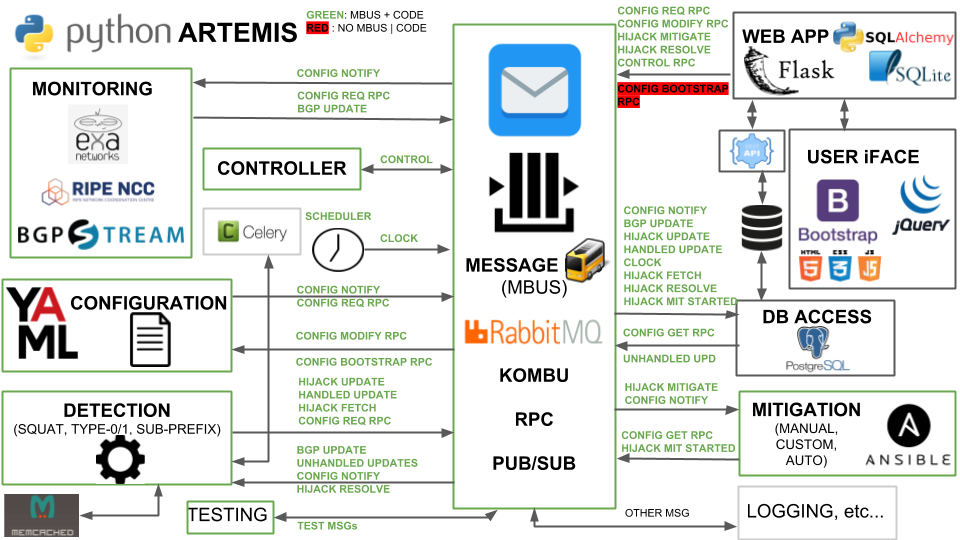
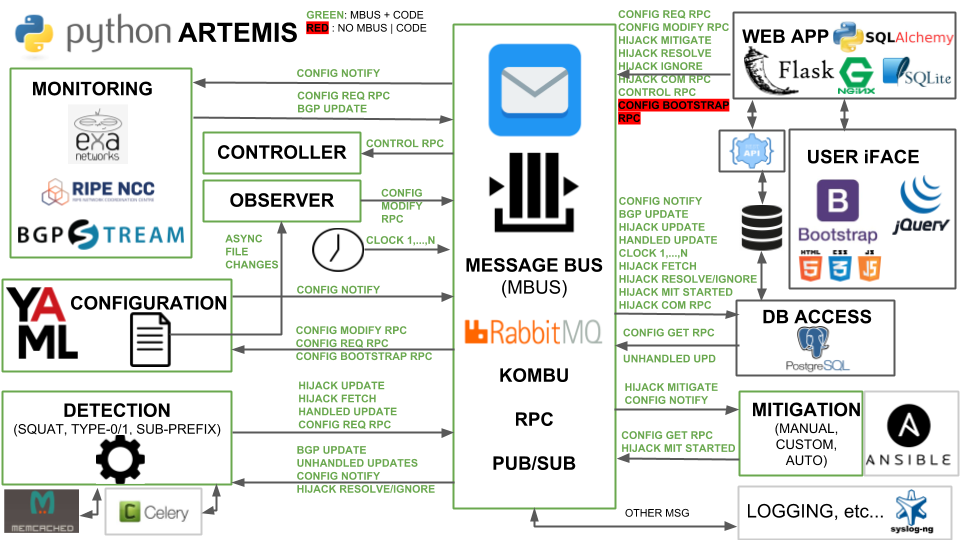
syncing README and arch figure with current code state

diff --git a/README.md b/README.md
@@ -36,29 +36,32 @@ suspicious event (potential hijack), the network operator is immediately
 sent a notification (e.g., UI entry or email) detailing the following information:
 ```
 {
-'prefix': ...,
-'hijacker_AS': ...,
-'hijack_type':...,
-'time_detected':...,
-'time_started': ...,
-'time_last_updated': ...,
-'peers_seen': ...,
-'inf_asns': ...
+  'prefix': ...,
+  'hijack_AS': ...,
+  'hijack_type':...,
+  'time_detected':...,
+  'time_started': ...,
+  'time_last': ...,
+  'configured_prefix': ...,
+  'timestamp_of_config': ...,
+  'peers_seen': ...,
+  'asns_inf': ...
 }
 ```
 and ARTEMIS offers the option to run a custom script defined by the operator.
 * Web interface used by the network administrator to:
 (i) provide configuration
-information (ASNs, prefixes, routing policies, etc.) via a web form or text editor,
-(ii) control ARTEMIS modules (start/stop/status),
+information (ASNs, prefixes, routing policies, etc.) via an online text editor,
+(ii) control the monitoring|detection|mitigation ARTEMIS modules (start|stop|status),
 (iii) monitor in real-time the BGP state related to the IP prefixes of interest,
-(iv) view details of BGP hijacks of monitored prefixes,
+(iv) view details of BGP hijacks of monitored configured prefixes,
 (v) monitor in real-time the status of ongoing, unresolved BGP hijacks,
 (vi) press button to trigger a custom mitigation process, mark as manually mitigated ("resolve")
 or ignore the event as a false positive,
-(vii) register and manage users (ADMIN|VIEWER).
+(vii) register and manage users (ADMIN|VIEWER),
+(viii) see configuration history and compare ARTEMIS current and previous configurations.
 * Configuration file editable by the operator (directly or via the web interface),
-containing information about: prefixes, ASNs, monitors and ARTEMIS rules ("ASX advertises prefix P to ASY").
+containing information about: prefixes, ASNs, monitors and ARTEMIS rules ("ASX originates prefix P and advertises it to ASY").
 * CLI to start/stop ARTEMIS modules and query their status (running state, uptime).
 * Support for both IPv4 and IPv6 prefixes.
 
@@ -74,7 +77,8 @@ interact with each other will be added to this README soon.
 ARTEMIS is built as a multi-container Docker application.
 The following instructions will get you a containerized
 copy of the ARTEMIS tool up and running on your local machine
-for testing purposes.
+for testing purposes. For instructions on how to set up ARTEMIS
+in e.g., a Kubernetes environment, please contact the ARTEMIS team.
 
 ## Min. technical requirements of testing server/VM
 
@@ -96,7 +100,13 @@ sudo ./other/ufw_setup.sh
 ```
 
 ## How to install
-First, if not already installed, follow the instructions
+
+Make sure that your Ubuntu package sources are up-to-date:
+```
+sudo apt-get update
+```
+
+If not already installed, follow the instructions
 [here](https://docs.docker.com/install/linux/docker-ce/ubuntu/#install-docker-ce)
 to install the latest version of the docker tool for managing containers,
 and [here](https://docs.docker.com/compose/install/#install-compose)
@@ -114,6 +124,17 @@ sudo usermod -aG docker $USER
 For more instructions and potential debugging on this please consult this
 [webpage](https://docs.docker.com/install/linux/linux-postinstall/#manage-docker-as-a-non-root-user).
 
+Install ntp for time synchronization:
+```
+sudo apt-get install ntp
+```
+
+Install git for downloading ARTEMIS:
+```
+sudo apt-get install git
+```
+and then download ARTEMIS from github (if not already downloaded).
+
 Then you can build ARTEMIS by running:
 ```
 docker-compose build
@@ -127,18 +148,18 @@ Before starting ARTEMIS, you should configure access to the web application
 (used to configure/control ARTEMIS and view its state),
 by editing the following file:
 ```
-docker-compose.yml
+docker-compose.yaml
 ```
 and adjusting the following parameters/environment variables related
 to the artemis_frontend container:
 ```
 USER_ROOT_USERNAME: "admin"
-USER_ROOT_PASSWORD: "admin"
+USER_ROOT_PASSWORD: "admin123"
 USER_ROOT_EMAIL: "admin@admin"
 ```
 The ARTEMIS web application supports https to ensure secure access to the application.
 We use a nginx reverse proxy to terminate SSL connections before forwarding the requests
-to Flask. To configure your own certificates, please place in the following folder:
+to Flask. To configure your own (e.g., self-signed) certificates, please place in the following folder:
 ```
 frontend/webapp/configs/certs
 ```
@@ -152,9 +173,9 @@ You do not need to modify any other configuration file for now.
 ### Configuring logging (syslog)
 You should edit the following file:
 ```
-docker-compose.yml
+docker-compose.yaml
 ```
-and adjust the following environment variables:
+comment-in all syslog-related lines and adjust the following environment variables:
 ```
 SYSLOG_HOST=<IP>:<PORT>
 ```
@@ -175,11 +196,10 @@ docker-compose up -d
 in detached mode (to run it as a daemon).
 
 ### Using the web application
-Visually, you can now configure, control and view ARTEMIS on https://<ARTEMIS_HOST>.
+Visually, you can now configure, control and view ARTEMIS by logging in to https://<ARTEMIS_HOST>/login.
+The default ADMIN user can login with the credentials set in the env variables.
 
-*Note*: Please use only the web application forms to configure ARTEMIS.
-
-### Registering users (ADMIN/VIEWER)
+### Registering users
 ```
 https://<ARTEMIS_HOST>/create_account
 ```
@@ -190,13 +210,16 @@ by an ADMIN user. The default role for new users is VIEWER.
 ```
 https://<ARTEMIS_HOST>/admin/user_management
 ```
-Here the ADMIN user can approve pending users, promote users to admins, as well as delete users.
+Here the ADMIN user can approve pending users,
+promote users to admins, delete users and view all users.
 An ADMIN can delete VIEWER users, but not ADMIN users.
 
 ### User account actions (ADMIN-VIEWER)
 Currently the current account-specific actions are supported:
-* Password change (TBD)
-* ... (TBD)
+* Password change at:
+```
+https://<ARTEMIS_HOST>/actions/password_change
+```
 
 ### Configuring and Controlling ARTEMIS through the web application (ADMIN-only)
 ```
@@ -265,15 +288,15 @@ rules:
 ### Viewing ARTEMIS state
 After being successfully logged-in to ARTEMIS, you will be redirected to the following webpage:
 ```
-https://<ARTEMIS_HOST>/admin/system
+https://<ARTEMIS_HOST>//overview
 ```
 Here you can view info about:
-* your last login information (time and IP address)
+* your last login information (email address, time and IP address)
 * the system status (status of modules and uptime information)
 * the current configuration of the system (and its last update time)
 * the ARTEMIS version you are running
 * statistics about the ARTEMIS db, in particular:
-** Total number of BGP updates, as well as of unhandled (by the detection) updates
+** Total number of BGP updates, as well as of unhandled (by the detection module) updates
 ** Total number of detected BGP hijacks (as well as a break-down in "resolved",
 "under mitigation", "ognoing" and "ignored").
 
@@ -293,7 +316,7 @@ The following fields are supported:
 * Timestamp (displayed in local time zone)
 * Hijack (if present, redirects to a corresponding Hijack entry)
 * Status (blue if the detector has seen the update, grey if examination is pending)
-* Additional information: Communities ([{'asn':..., 'value':...}, ...])
+* Additional information: Communities ([...:...,...])
 * Additional information: Original Path (if the original path e.g., contains AS-SETs, etc.)
 * Additional information: Hijack Key (unique hijack identifier)
 
@@ -318,7 +341,7 @@ The following fields are supported:
 * Time Started (when the event actually started)
 * Additional information: Time Ended (this is set only for resolved hijacks)
 * Additional information: Hijack Key (unique hijack identifier)
-* Additional information: Mitigation Started (this is set only for hijacks under mitigation)
+* Additional information: Mitigation Started (this is set for hijacks under mitigation)
 * Additional information: Matched Prefix (the prefix that best matched configuration, if applicable)
 * Additional information: Config Matched (the timestamp of the configuration against which the hijack was generated)
 * Additional information: Time Detected (the timestamp when the hijack was actually detected)
@@ -359,16 +382,44 @@ and action=start|stop|status.
 Also note that the web application (frontend) and the backend operate in their own separate containers; to e.g.,
 restart them, please run the following command:
 ```
-docker-compose restart artemis_frontend
-docker-compose restart artemis_backend
+docker-compose restart frontend
+docker-compose restart backend
 ```
 
-### Receiving BGP feed from local route reflector via exaBGP
-For instructions on how to set up an exaBGP-based local monitor,
-getting BGP updates' feed from your local router or route reflector,
-please check [here](https://github.com/slowr/ExaBGP-Monitor)
+### Receiving BGP feed from local router/route reflector/BGP monitor via exaBGP
+First, comment out all exabgp-related lines in the docker-compose.yaml file.
 
-In ARTEMIS, you should configure the monitor using the web application form in
+Then, edit the backend/configs/exabgp.conf file as follows:
+```
+group r1 {
+    router-id <PUBLIC_IP>;
+
+    process message-logger {
+        encoder json;
+        receive {
+            parsed;
+            update;
+            neighbor-changes;
+        }
+        run /usr/lib/python2.7.14/bin/python /home/server.py;
+    }
+
+    neighbor <NEIGHBOR_IP> {
+        local-address <LOCAL_LAN_IP>;
+        local-as <LOCAL_ASN>;
+        peer-as <PEER_ASN>;
+    }
+}
+```
+
+Stop, rebuild and restart ARTEMIS:
+```
+docker-compose down
+docker-compose build
+docker-compose up # or up -d
+```
+
+Login and configure the monitor using the web application form in
 ```
 https://<ARTEMIS_HOST>/admin/system
 ```
@@ -378,7 +429,7 @@ by setting its IP address and port. An example is the following:
 monitors:
   ...
   exabgp:
-    - ip: 192.168.1.1
+    - ip: exabgp # this will automatically be resolved to the exabgp container's IP
       port: 5000
 ...
 ```
@@ -392,24 +443,6 @@ Ctrl+C # on the terminal running ARTEMIS
 docker-compose down # afterwards, same terminal
 ```
 
-## Known Issues
-
-1. iptables: No chain/target/match by that name
-```
-docker: Error response from daemon: driver failed programming
-external connectivity on endpoint artemistest (4980f6b7fe169a16e8ebe5f5e01a31700409d17258da0ee19ea060060d3f3db9):
-(iptables failed: iptables --wait -t filter -A DOCKER ! -i docker0 -o docker0 -p tcp -d 172.17.0.2
---dport 5000 -j ACCEPT: iptables: No chain/target/match by that name.
-(exit status 1)).
-```
-
-To fix, clear all chains and then restart Docker Service:
-```
-iptables -t filter -F
-iptables -t filter -X
-systemctl restart docker
-```
-
 ## Contributing
 
 ### Implementing additional Monitors (taps)
@@ -418,7 +451,7 @@ TBD
 ```
 For example take a look at the `backend/taps/exabgp_client.py`
 which implements the exaBGP monitor publisher or
-the `backend/taps/ripe_ris.js` which implements the
+the `backend/taps/ripe_ris.py` which implements the
 RIPE RIS monitor publisher. Please edit only the code
 in the taps folder.
 
